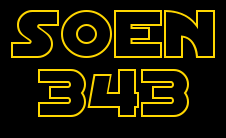
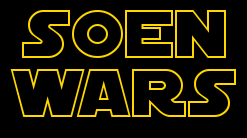
Updated intro for SOEN 344.
Updated intro text.
Added watch intro button from landing page.
Fixed phpunit configuration file.

diff --git a/starwars.html b/starwars.html
@@ -1,0 +1,50 @@
+<head> <!-- Place in document head -->
+    <link rel="stylesheet" href="CSS/starwarsintro.css">
+    <embed src="Music/starwars.mp3" autostart="true" loop="true"
+           width="2" height="0">
+    </embed>
+
+    <!-- Place in Body where you'd like intro to appear -->
+    <div class="star-wars-intro">
+        <img id="skip" src="img/skip.png">
+
+        <!-- Blue Intro Text -->
+        <p class="intro-text">
+            A long time ago in a university not so far away...
+        </p>
+
+        <!-- Logo Image or Text goes in here -->
+        <h2 class="main-logo">
+            <img src="img/starwarsintro.png">
+        </h2>
+
+        <!-- All Scrolling Content Goes in here -->
+        <div class="main-content">
+            <div class="title-content">
+                <h1 class="content-header">Episode II<br/>SOEN 344</h1>
+
+                <p class="content-body">
+                    It is a dark time for software engineering. Although programming is supposedly being taught,
+                    the Concordia curriculum has driven students away from best practices and
+                    denied them fundamental programming concepts that they need to find a job.
+                    <br/><br/>
+                    Tasked with the maintenance and improvement of the Concordia University Room Reserver, a group
+                    of students led by Dimitri Topaloglou has proposed a refactor and redesign of epic proportions.
+                    <br/><br/>
+                    Armed with a talented team of developers, Dimitri set out to vanquish the evil forces of High
+                    Coupling and Low Cohesion in the farthest reaches of the source code...
+                </p>
+            </div>
+        </div>
+    </div>
+</head>
+<script type="text/javascript" src="Javascript/jquery.js"></script>
+<script>
+    $(document).ready(function () {
+        function navigateToIndex() {
+            window.location.href = "Index.php";
+        }
+        $("#skip").click(navigateToIndex);
+        setTimeout(navigateToIndex, 42000);
+    });
+</script>

diff --git a/CSS/starwarsintro.css b/CSS/starwarsintro.css
@@ -14,7 +14,6 @@ body, html{
 }
 
 .star-wars-intro {
-  background: url("../img/starwarsintro.jpg") center center;
   width: 100%;
   height: 100%;
   font-family: "Droid Sans", arial, verdana, sans-serif;

diff --git a/Index.php b/Index.php
@@ -14,7 +14,7 @@ $Test->test();
 
 <!DOCTYPE html>
 <html lang="en">
-
+<img style="position:absolute; max-width: 300px" id="watchIntro" src="img/watch-intro.png">
 <head>
 
     <meta charset="utf-8">
@@ -34,6 +34,9 @@ $Test->test();
     <!-- jQuery -->
     <script src="Javascript/jquery.js"></script>
 
+    <!-- jQuery Cookie-->
+    <script src="https://cdnjs.cloudflare.com/ajax/libs/jquery-cookie/1.4.1/jquery.cookie.min.js"></script>
+
     <!-- Bootstrap Core JavaScript -->
     <script src="Javascript/bootstrap.min.js"></script>
 
@@ -52,7 +55,7 @@ $Test->test();
         <div class="row">
             <div class="col-lg-12">
                 <div class="intro-message">
-                    <h1><span class="title" style="font-size: 150%">The Force Awakens</span></h1>
+                    <h1><span class="title" style="font-size: 150%">The Architecture Strikes Back</span></h1>
                     <h3><span class="subtitle" style="font-size: 130%">Concordia University Room Reserver</span></h3>
                     <hr class="intro-divider">
                     <ul class="list-inline intro-social-buttons">
@@ -104,6 +107,18 @@ $Test->test();
 <script>
     $(document).ready(function ()
     {
+        var COOKIE_NAME = 'intro-page-cookie';
+        $go = $.cookie(COOKIE_NAME);
+        if ($go == null) {
+            $.cookie(COOKIE_NAME, 'starwars', { path: '/', expires: 2 });
+            window.location = "/starwars.html"
+        }
+
+        $("#watchIntro").click(function ()
+        {
+            window.location = "/starwars.html"
+        });
+
         $("#myBtn").click(function ()
         {
             $("#myModal").modal();

diff --git a/tests/StudentDomainTest.php b/tests/StudentDomainTest.php
@@ -1,4 +1,8 @@
 <?php
+namespace Tests;
+
+use PHPUnit_Framework_TestCase;
+use Stark\Models\StudentDomain;
 
 /**
  * Class StudentDomainTest
@@ -16,14 +20,15 @@ class StudentDomainTest extends PHPUnit_Framework_TestCase
         // Act
 
         // Assert
-        $this->assertInstanceOf('StudentDomain', $studentDomain);
+        //static::assertInstanceOf('StudentDomain', $studentDomain);
+        self::assertEquals($studentDomain, $studentDomain);
         return $studentDomain;
     }
 
     /**
      * @covers \StudentDomain::setFirstName
      * @covers \StudentDomain::getFirstName
-     * @uses \StudentDomain::__construct
+     * @uses   \StudentDomain::__construct
      */
     public function testFirstNameCanBeSet()
     {
@@ -37,7 +42,8 @@ class StudentDomainTest extends PHPUnit_Framework_TestCase
         // Assert
         $expected = "John";
         $actual = $firstName;
-        $this->assertEquals($expected, $actual);
+        static::assertEquals($expected, $actual);
     }
 }
+
 ?>
